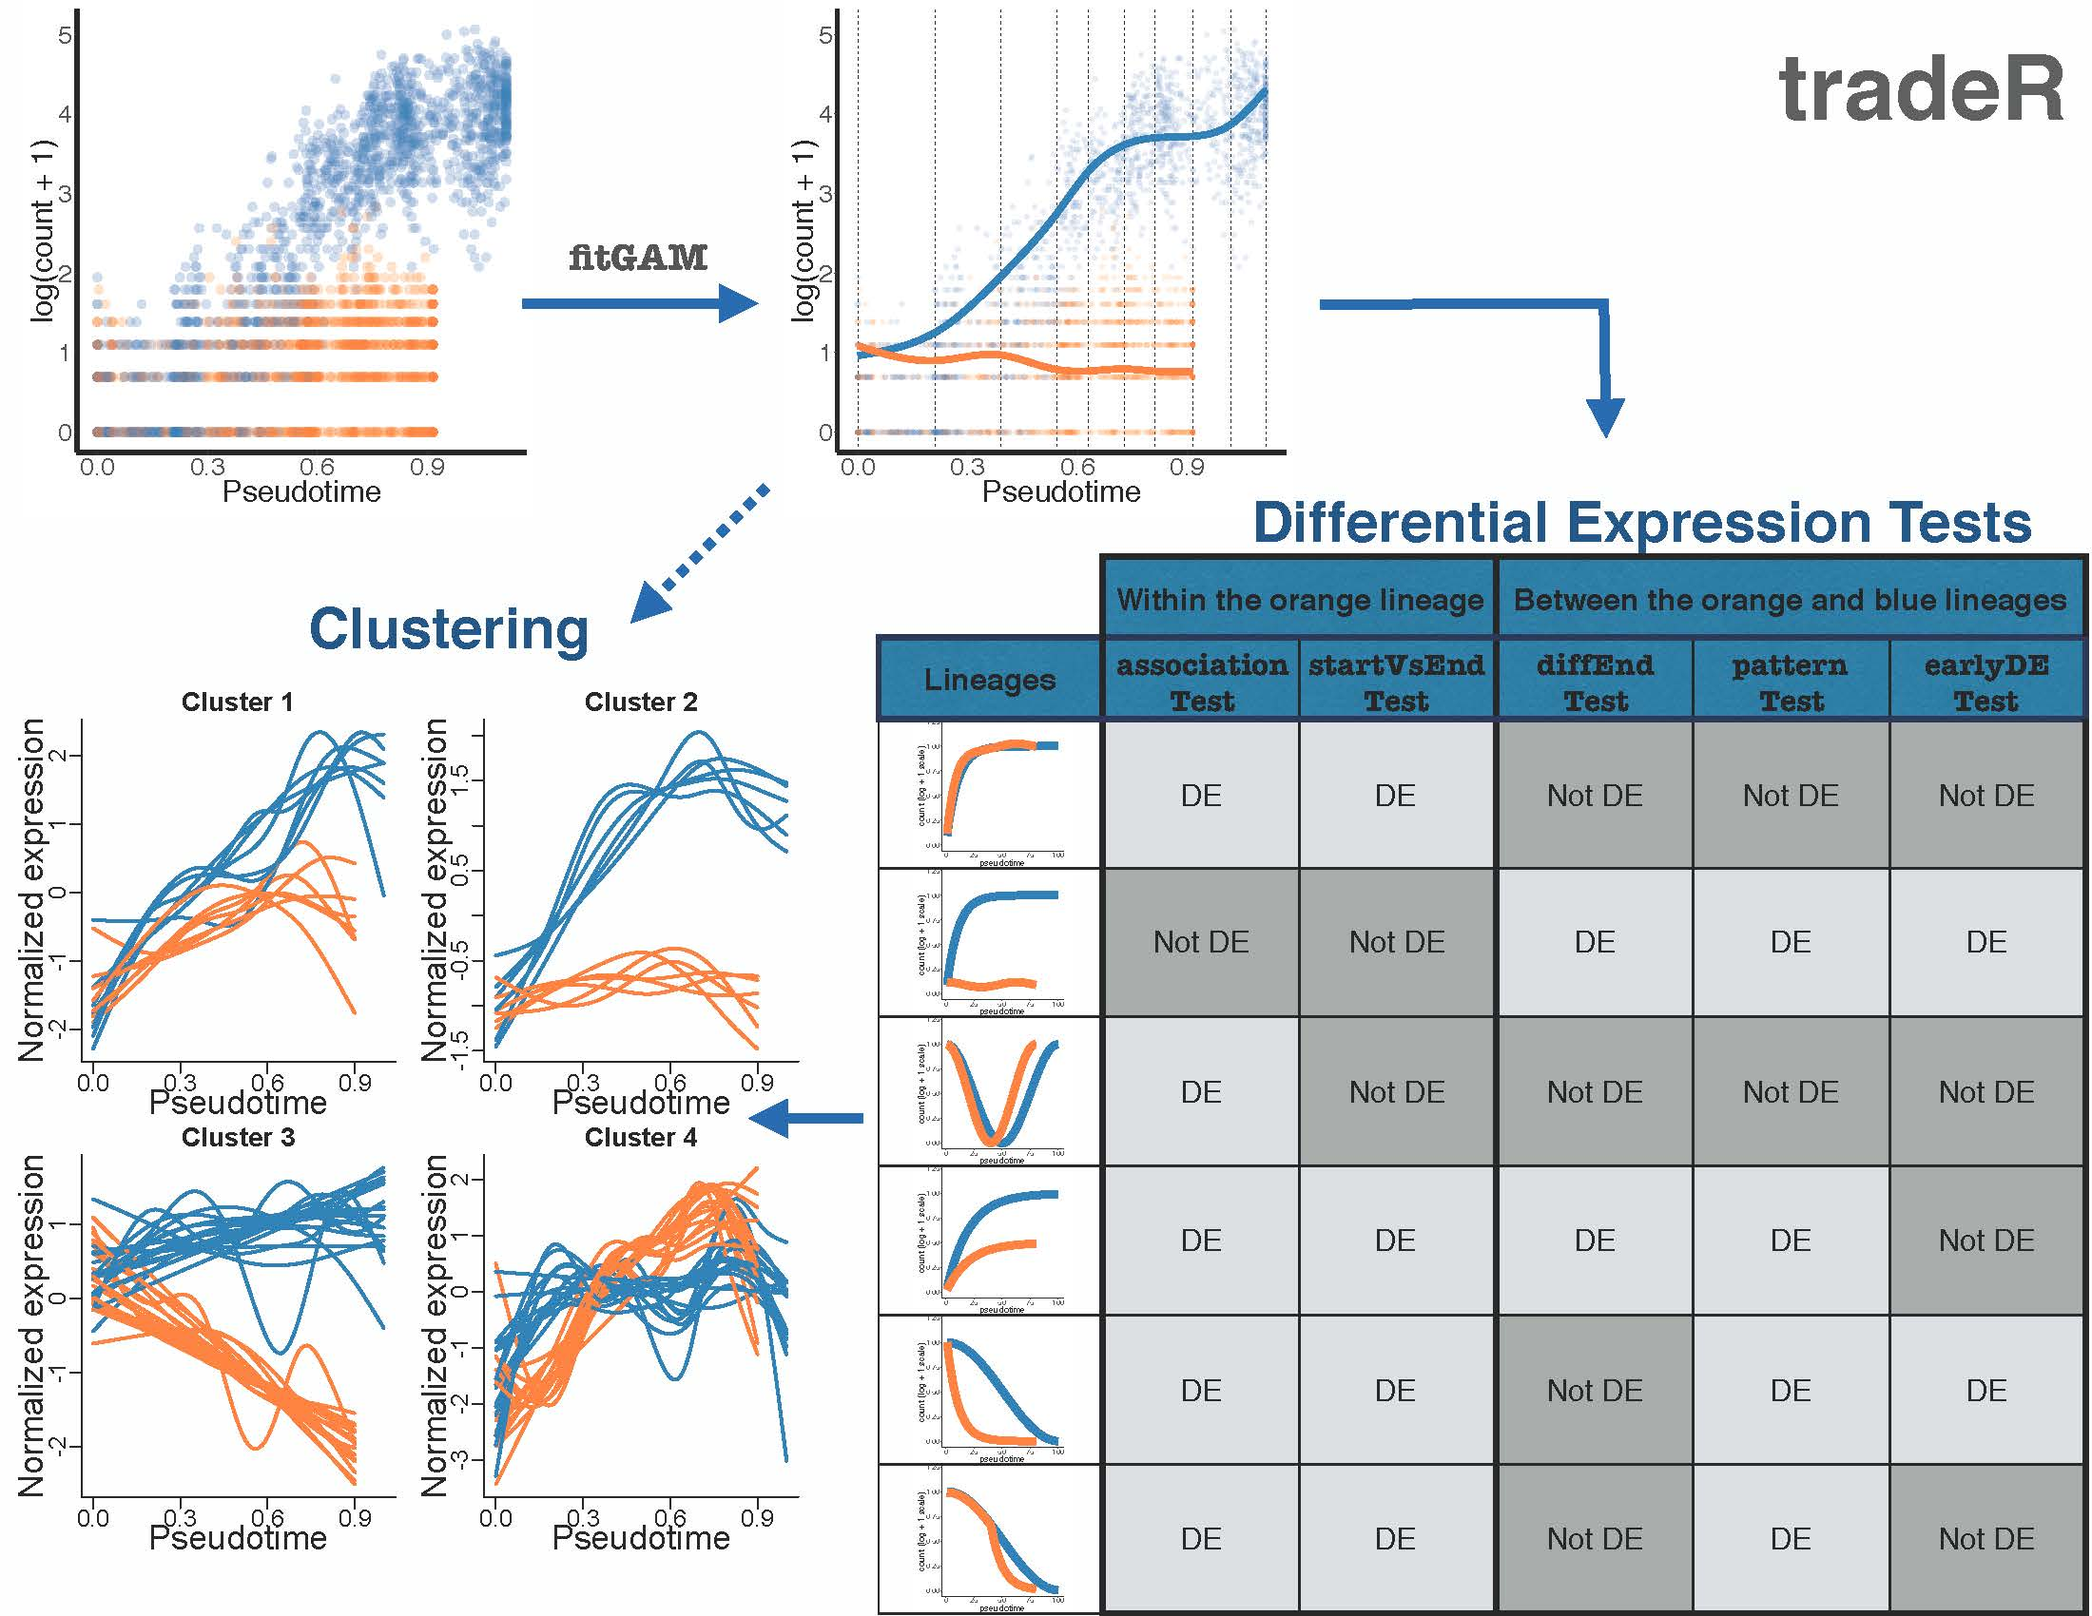
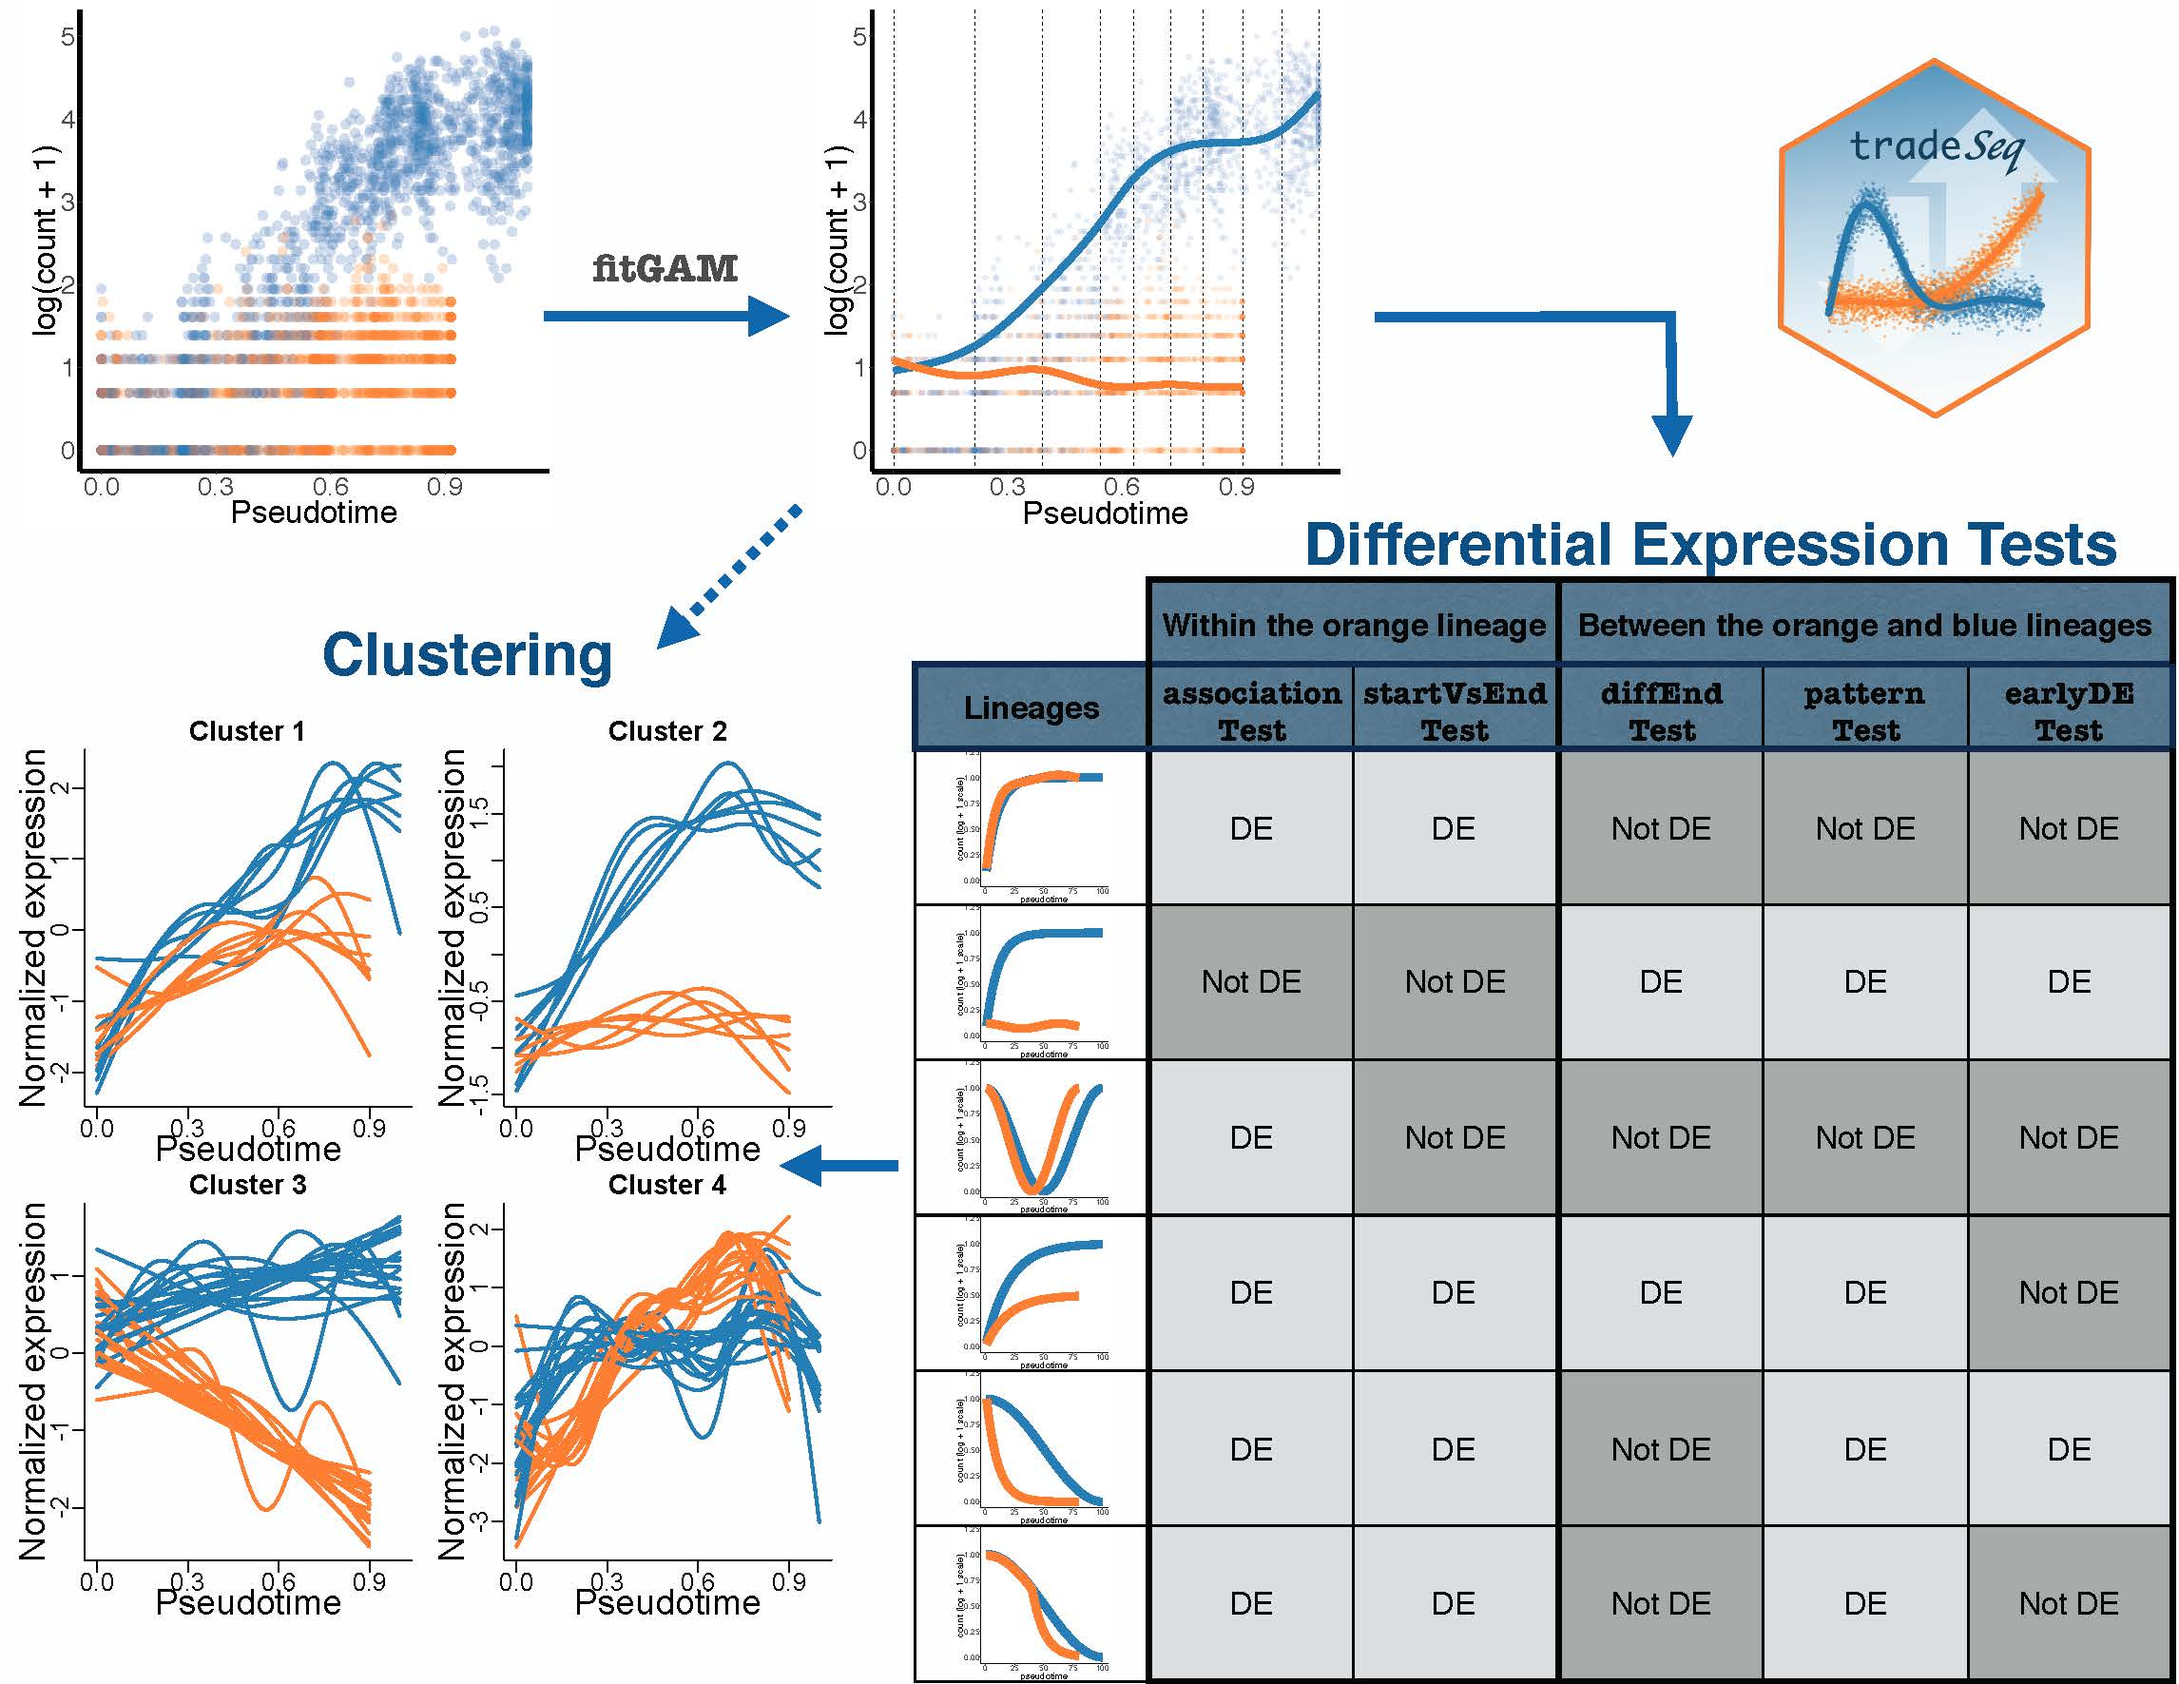
Changes to fit Bioconductor guidelines

diff --git a/README.md b/README.md
@@ -1,7 +1,7 @@
-# R package: tradeR
-## TRAjectory Differential Expression analysis in R
+# R package: tradeSeq
+## TRAjectory Differential Expression analysis for sequencing data
 
-tradeR provides a flexible method for finding genes that are differentialy expressed along one or multiple trajectories, using a variety of tests suited to address the hypotheses of interest.
+tradeSeq provides a flexible method for finding genes that are differentially expressed along one or multiple trajectories, using a variety of tests suited to answer many questions of interest.
 
 ## Installation
 
@@ -18,7 +18,7 @@ Please use https://github.com/statOmics/tradeR/issues to submit issues, bug repo
 
 Start with the vignette either [online](https://statOmics.github.io/tradeR/) or by running
 ```{r}
-utils::vignette(topics = "tradeR", package = "tradeR")
+utils::vignette(topics = "tradeSeq", package = "tradeSeq")
 ```
 
 ## Cheatsheet
@@ -29,5 +29,5 @@ You can also refer to this cheatsheet to undersand a common workflow
 
 ## Contributing and requesting
 
-A number of tests have been implemented in tradeR, but researchers may be interested in other hypotheses that current implementations may not be able to address. We therefore welcome contributions on GitHub on novel tests based on the tradeR model.
-Similar, you may also request novel tests to be implemented in tradeR by the developers, preferably by adding an issue on the GitHub repository. If we feel that the suggested test is widely applicable, we will implement it in tradeR.
+A number of tests have been implemented in tradeSeq, but researchers may be interested in other hypotheses that current implementations may not be able to address. We therefore welcome contributions on GitHub on novel tests based on the tradeSeq model.
+Similar, you may also request novel tests to be implemented in tradeSeq by the developers, preferably by adding an issue on the GitHub repository. If we feel that the suggested test is widely applicable, we will implement it in tradeSeq.
